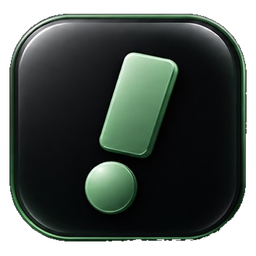
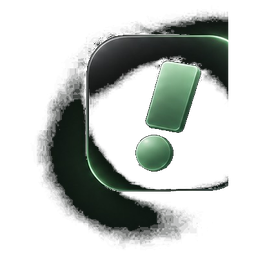
Swap in the glass bang lockup, black canvas stripped
Header uses the cinematic mark at a compact bar size. Install row gets the same bang tile.

diff --git a/src/components/qonvo-app.tsx b/src/components/qonvo-app.tsx
@@ -355,8 +355,8 @@ export function QonvoApp() {
               goHome();
             }}
           >
-            <img src="/kilode-logo-green.png" alt="Kilode" className="logo-night h-8 w-auto max-w-[140px] object-contain object-left sm:h-9 sm:max-w-[168px]" />
-            <img src="/kilode-logo-light.svg" alt="Kilode" className="logo-day hidden h-8 w-auto max-w-[140px] object-contain object-left sm:h-9 sm:max-w-[168px]" />
+            <img src="/kilode-logo-green.png" alt="Kilode" className="logo-night h-9 w-auto max-w-[156px] object-contain object-left sm:h-10 sm:max-w-[176px]" />
+            <img src="/kilode-logo-light.svg" alt="Kilode" className="logo-day hidden h-9 w-auto max-w-[156px] object-contain object-left sm:h-10 sm:max-w-[176px]" />
           </button>
           <nav className="mx-auto hidden min-w-0 items-center justify-center gap-1 md:flex">
             <HomeTab label="Feeds" on={homeTab === "feeds" && screen === "home" && !marketDesk} onClick={() => { store.setOpenPost(null); setMarketDesk(null); setHomeTab("feeds"); setScreen("home"); setMenuOpen(false); }} />

diff --git a/src/styles.css b/src/styles.css
@@ -395,8 +395,8 @@ html[data-skin="ivory"] .app-tab {
 html[data-skin="ivory"] .logo-night {
   display: block;
   background: #070b08;
-  border-radius: 8px;
-  padding: 3px 8px 3px 4px;
+  border-radius: 10px;
+  padding: 2px 6px;
 }
 html[data-skin="ivory"] .logo-day {
   display: none;
